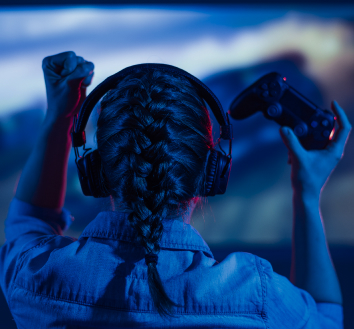
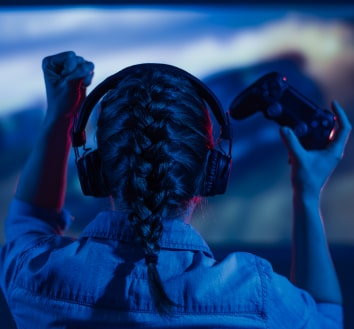
multiple changes : - Change Title in index.html - Fix HTML errors - Change some CSS values - Compress images sizes - Change modal close to be more consistent with the oppening

diff --git a/assets/css/style.min.css b/assets/css/style.min.css
@@ -1,1 +1,1 @@
-:root{--font-default:"DM Sans",Arial,Helvetica,sans-serif;--font-slab:var(--font-default);--modal-duration:0.8s}*{-webkit-box-sizing:border-box;box-sizing:border-box;margin:0;padding:0}body{margin:0;display:-webkit-box;display:-ms-flexbox;display:flex;-webkit-box-orient:vertical;-webkit-box-direction:normal;-ms-flex-direction:column;flex-direction:column;font-family:var(--font-default);font-size:1rem;max-width:1300px;margin:0 auto}p{margin-bottom:0;padding:.1rem}.topnav{overflow:hidden;margin:3.5% 3.5% 0 3.5%}.header-logo{float:left;padding:1rem 0}.main-navbar{float:right;padding:1rem 0}.topnav a{float:left;display:block;color:#000;text-align:center;padding:1rem 1rem;text-decoration:none;font-size:1rem;font-family:Roboto,sans-serif}.topnav a:hover{background-color:red;color:#fff;border-radius:1rem}.topnav a.active{background-color:red;color:#fff;border-radius:1rem}.topnav .icon{display:none}main{font-weight:bolder;color:#000;margin:3.5% 3.5% 0 3.5%;border-radius:2rem;text-align:justify}.modal-btn{font-size:145%;background:#fe142f;display:-webkit-box;display:-ms-flexbox;display:flex;margin:auto;padding:2em;color:#fff;padding:.75rem 2.5rem;border-radius:1rem;cursor:pointer}.modal-btn:hover{background:#3876ac}.footer{margin:1rem;padding:.5rem;font-family:var(--font-slab)}.button{background:#fe142f;margin-top:.5em;padding:1em;color:#fff;border-radius:1rem;cursor:pointer;font-size:1rem}.button:hover{background:#3876ac}.smFont{font-size:1rem}.bground{display:none;position:fixed;z-index:1;left:0;top:0;height:100%;width:100%;overflow:auto;background-color:rgba(26,39,156,.4)}.content{margin:5% auto;width:100%;max-width:500px;-webkit-animation-name:modalopen;animation-name:modalopen;-webkit-animation-duration:var(--modal-duration);animation-duration:var(--modal-duration);background:#232323;border-radius:.6rem;overflow:hidden;position:relative;color:#fff;padding-top:.6rem}.modal-body{padding:1rem 8%;margin:1rem auto}label{font-family:var(--font-default);font-size:1rem;font-weight:400;display:inline-block;margin:.75rem 0 .5rem 0}input{padding:.5rem;border:.05rem solid #ccc;outline:0}.text-control{margin:0;padding:.5rem;width:100%;border-radius:.5rem;font-size:1rem;height:3rem}.formData[data-error]::after{content:attr(data-error);font-size:.5em;color:#e54858;display:block;margin-top:.5rem;margin-bottom:.5rem;text-align:right;line-height:.3;opacity:0;-webkit-transition:.3s;-o-transition:.3s;transition:.3s}.formData[data-error-visible=true]::after{opacity:1}.formData[data-error-visible=true] .text-control{border:.1rem solid #e54858}.checkbox-label,.checkbox2-label{position:relative;margin-left:2rem;font-size:.8rem;font-weight:400}.checkbox-label .checkbox-icon,.checkbox2-label .checkbox-icon{display:block;width:1rem;height:1rem;border:.1rem solid #279e7a;border-radius:50%;text-indent:2rem;white-space:nowrap;position:absolute;left:-2rem;top:-.005rem;-webkit-transition:.3s;-o-transition:.3s;transition:.3s}.checkbox-label .checkbox-icon::after,.checkbox2-label .checkbox-icon::after{content:"";width:.8rem;height:.8rem;background-color:#279e7a;border-radius:50%;text-indent:2rem;white-space:nowrap;position:absolute;left:50%;top:50%;-webkit-transform:translate(-50%,-50%);-ms-transform:translate(-50%,-50%);transform:translate(-50%,-50%);-webkit-transition:.3s;-o-transition:.3s;transition:.3s;opacity:0}.checkbox-input{display:none}.checkbox-input:checked+.checkbox-label .checkbox-icon::after,.checkbox-input:checked+.checkbox2-label .checkbox-icon::after{opacity:1}.checkbox-input:checked+.checkbox2-label .checkbox-icon{background:#279e7a}.checkbox2-label .checkbox-icon{border-radius:.2rem;border:0;background:#c4c4c4}.checkbox2-label .checkbox-icon::after{width:.5rem;height:.2rem;border-radius:.1rem;background:0 0;border:.1rem solid transparent;border-bottom-color:#fff;border-left-color:#fff;-webkit-transform:rotate(-55deg);-ms-transform:rotate(-55deg);transform:rotate(-55deg);left:21%;top:19%}.close{position:absolute;right:1rem;top:1rem;width:2rem;height:2rem;opacity:1;cursor:pointer;-webkit-transform:scale(.7);-ms-transform:scale(.7);transform:scale(.7)}.close:after,.close:before{position:absolute;left:1rem;content:" ";height:2.1rem;width:.3rem;background-color:#fff}.close:before{-webkit-transform:rotate(45deg);-ms-transform:rotate(45deg);transform:rotate(45deg)}.close:after{-webkit-transform:rotate(-45deg);-ms-transform:rotate(-45deg);transform:rotate(-45deg)}.btn-close,.btn-signup,.btn-submit{background:#fe142f;display:block;margin:0 auto;border-radius:.5rem;font-size:1rem;padding:1rem 5rem;color:#fff;cursor:pointer;border:0}.custom-select{position:relative;font-family:Arial;font-size:1rem;font-weight:400}.custom-select select{display:none}.select-selected{background-color:#fff}.select-selected:after{position:absolute;content:"";top:.6rem;right:.8rem;width:.7rem;height:.7rem;border:.2rem solid transparent;border-bottom-color:red;border-left-color:red;-webkit-transform:rotate(-48deg);-ms-transform:rotate(-48deg);transform:rotate(-48deg);border-radius:.3rem 0 .3rem 0}.select-selected.select-arrow-active:after{-webkit-transform:rotate(135deg);-ms-transform:rotate(135deg);transform:rotate(135deg);top:1rem}.select-items div,.select-selected{color:#000;padding:1rem;border:.05rem solid transparent;border-color:transparent transparent rgba(0,0,0,.1) transparent;cursor:pointer;border-radius:.5rem;height:3rem}.select-items{position:absolute;background-color:#fff;top:89%;left:0;right:0;z-index:99}.select-hide{display:none}.same-as-selected,.select-items div:hover{background-color:rgba(0,0,0,.1)}.text-label{font-weight:400;font-size:1rem;margin-top:1rem}.hero-section{height:34rem;border-radius:.5rem;display:grid;grid-template-columns:repeat(12,1fr);overflow:hidden;-webkit-box-shadow:0 .1rem .5rem .1rem rgba(0,0,0,.2);box-shadow:0 .1rem .5rem .1rem rgba(0,0,0,.2);margin-bottom:.6rem}.hero-content{padding:3rem 4rem;grid-column:span 5;background:#232323;color:#fff;position:relative;text-align:left;min-width:100%;height:inherit}.hero-content>*{position:relative;z-index:1}.hero-headline{font-size:4rem;font-weight:400;white-space:nowrap}.hero-text{width:110%;font-weight:400;margin-top:3.5rem;padding:0;font-size:1.3rem}.btn-signup{outline:0;font-size:1.2rem;padding:1rem 1.5rem;margin:0;margin-top:4rem}.hero-img{grid-column:span 7;height:inherit}.hero-img img{width:100%;height:100%;display:block;padding:0;-o-object-fit:cover;object-fit:cover}.copyrights{color:#fe142f;padding:0;font-size:1rem;margin:4rem 0 2rem;font-weight:bolder}.hero-section>.btn-signup{display:none}footer{margin:0 1rem}@media screen and (max-width:1000px){html{font-size:2vw}.header-logo{width:20%}.header-logo img{width:100%}.topnav a{padding:.5rem .5rem}.topnav a.active{border-radius:.5rem}.hero-text{margin-top:2rem}.btn-signup{margin-top:2rem}}@media screen and (max-width:767px){html{font-size:4vw}main{margin:0 1rem 1rem 1rem}.header-logo{width:unset}.header-logo img{height:1.5rem}.topnav a{display:none;margin:.5rem;font-size:1.5rem}.topnav a.icon{float:right;display:block;color:red;font-size:1.5rem}a.icon:hover{color:#fff}.topnav.responsive{position:relative}.topnav.responsive .icon{position:absolute;right:.5rem;top:.45rem}.topnav.responsive a{float:none;display:block;text-align:center;margin:.05rem 0}.responsive .main-navbar{margin-top:4rem}.main-navbar{float:none;padding:0}.hero-headline br{display:none}.hero-section{display:block;-webkit-box-shadow:unset;box-shadow:unset;height:100%}.hero-content{background:#fff;color:#000;padding:0;min-width:unset}.hero-content::after{content:unset}.hero-content .btn-signup{display:none}.hero-headline{font-size:2.6rem;white-space:normal}.hero-text{width:unset;font-size:.9rem;margin-top:1rem}.hero-img img{border-radius:.6rem;margin-top:1rem}.hero-section>.btn-signup{display:block;margin:2rem auto .5rem;padding:1rem 3rem}.copyrights{margin:.5rem 0;text-align:center}}@media screen and (max-width:540px){.topnav a{display:none}.topnav a.icon{float:right;display:block}}@-webkit-keyframes modalopen{from{opacity:0;-webkit-transform:translateY(-9.5rem);transform:translateY(-9.5rem)}to{opacity:1}}@keyframes modalopen{from{opacity:0;-webkit-transform:translateY(-9.5rem);transform:translateY(-9.5rem)}to{opacity:1}}.error-form{color:red;font-size:.8rem;margin-top:.2rem}#error-birthdate,#error-city,#error-email,#error-first,#error-last,#error-quantity,#error-term{display:none}#confirmation{margin:auto;display:none}#confirmation h1{text-align:center;font-size:2rem;padding:18rem 0}
+:root{--font-default:"DM Sans",Arial,Helvetica,sans-serif;--font-slab:var(--font-default);--modal-duration:0.8s}*{-webkit-box-sizing:border-box;box-sizing:border-box;margin:0;padding:0}body{margin:0;display:-webkit-box;display:-ms-flexbox;display:flex;-webkit-box-orient:vertical;-webkit-box-direction:normal;-ms-flex-direction:column;flex-direction:column;font-family:var(--font-default);font-size:1rem;max-width:1300px;margin:0 auto}p{margin-bottom:0;padding:.1rem}.topnav{overflow:hidden;margin:3.5% 3.5% 0 3.5%}.header-logo{float:left;padding:1rem 0;width:20%}.header-logo img{width:100%}.main-navbar{float:right;padding:1rem 0}.topnav a{float:left;display:block;color:#000;text-align:center;margin:.2rem .1rem;padding:.4rem .8rem;text-decoration:none;font-size:1.2rem;font-family:Roboto,sans-serif}.topnav a:hover{background-color:red;color:#fff;border-radius:.5rem}.topnav a.active{background-color:red;color:#fff;border-radius:.5rem}.topnav .icon{display:none}main{font-weight:bolder;color:#000;margin:3.5% 3.5% 0 3.5%;border-radius:2rem;text-align:justify}.modal-btn{font-size:145%;background:#fe142f;display:-webkit-box;display:-ms-flexbox;display:flex;margin:auto;padding:2em;color:#fff;padding:.75rem 2.5rem;border-radius:1rem;cursor:pointer}.modal-btn:hover{background:#3876ac}.footer{margin:1rem;padding:.5rem;font-family:var(--font-slab)}.button{background:#fe142f;margin-top:.5em;padding:1em;color:#fff;border-radius:1rem;cursor:pointer;font-size:1rem}.button:hover{background:#3876ac}.smFont{font-size:1rem}.bground{display:none;position:fixed;z-index:1;left:0;top:0;height:100%;width:100%;overflow:auto;background-color:rgba(26,39,156,.4)}.content{margin:5% auto;width:100%;max-width:500px;-webkit-animation-name:modalopen;animation-name:modalopen;-webkit-animation-duration:var(--modal-duration);animation-duration:var(--modal-duration);background:#232323;border-radius:.6rem;overflow:hidden;position:relative;color:#fff;padding-top:.6rem}.modal-body{padding:1rem 8%;margin:1rem auto}label{font-family:var(--font-default);font-size:1rem;font-weight:400;display:inline-block;margin:.75rem 0 .5rem 0}input{padding:.5rem;border:.05rem solid #ccc;outline:0}.text-control{margin:0;padding:.5rem;width:100%;border-radius:.5rem;font-size:1rem;height:3rem}.formData[data-error]::after{content:attr(data-error);font-size:.5em;color:#e54858;display:block;margin-top:.5rem;margin-bottom:.5rem;text-align:right;line-height:.3;opacity:0;-webkit-transition:.3s;-o-transition:.3s;transition:.3s}.formData[data-error-visible=true]::after{opacity:1}.formData[data-error-visible=true] .text-control{border:.1rem solid #e54858}.checkbox-label,.checkbox2-label{position:relative;margin-left:2rem;font-size:.8rem;font-weight:400}.checkbox-label .checkbox-icon,.checkbox2-label .checkbox-icon{display:block;width:1rem;height:1rem;border:.1rem solid #279e7a;border-radius:50%;text-indent:2rem;white-space:nowrap;position:absolute;left:-2rem;top:-.005rem;-webkit-transition:.3s;-o-transition:.3s;transition:.3s}.checkbox-label .checkbox-icon::after,.checkbox2-label .checkbox-icon::after{content:"";width:.8rem;height:.8rem;background-color:#279e7a;border-radius:50%;text-indent:2rem;white-space:nowrap;position:absolute;left:50%;top:50%;-webkit-transform:translate(-50%,-50%);-ms-transform:translate(-50%,-50%);transform:translate(-50%,-50%);-webkit-transition:.3s;-o-transition:.3s;transition:.3s;opacity:0}.checkbox-input{display:none}.checkbox-input:checked+.checkbox-label .checkbox-icon::after,.checkbox-input:checked+.checkbox2-label .checkbox-icon::after{opacity:1}.checkbox-input:checked+.checkbox2-label .checkbox-icon{background:#279e7a}.checkbox2-label .checkbox-icon{border-radius:.2rem;border:0;background:#c4c4c4}.checkbox2-label .checkbox-icon::after{width:.5rem;height:.2rem;border-radius:.1rem;background:0 0;border:.1rem solid transparent;border-bottom-color:#fff;border-left-color:#fff;-webkit-transform:rotate(-55deg);-ms-transform:rotate(-55deg);transform:rotate(-55deg);left:21%;top:19%}.close{position:absolute;right:1rem;top:1rem;width:2rem;height:2rem;opacity:1;cursor:pointer;-webkit-transform:scale(.7);-ms-transform:scale(.7);transform:scale(.7)}.close:after,.close:before{position:absolute;left:1rem;content:" ";height:2.1rem;width:.3rem;background-color:#fff}.close:before{-webkit-transform:rotate(45deg);-ms-transform:rotate(45deg);transform:rotate(45deg)}.close:after{-webkit-transform:rotate(-45deg);-ms-transform:rotate(-45deg);transform:rotate(-45deg)}.btn-close,.btn-signup,.btn-submit{background:#fe142f;display:block;margin:0 auto;border-radius:.5rem;font-size:1rem;padding:.8rem 3rem;color:#fff;cursor:pointer;border:0}.custom-select{position:relative;font-family:Arial;font-size:1rem;font-weight:400}.custom-select select{display:none}.select-selected{background-color:#fff}.select-selected:after{position:absolute;content:"";top:.6rem;right:.8rem;width:.7rem;height:.7rem;border:.2rem solid transparent;border-bottom-color:red;border-left-color:red;-webkit-transform:rotate(-48deg);-ms-transform:rotate(-48deg);transform:rotate(-48deg);border-radius:.3rem 0 .3rem 0}.select-selected.select-arrow-active:after{-webkit-transform:rotate(135deg);-ms-transform:rotate(135deg);transform:rotate(135deg);top:1rem}.select-items div,.select-selected{color:#000;padding:1rem;border:.05rem solid transparent;border-color:transparent transparent rgba(0,0,0,.1) transparent;cursor:pointer;border-radius:.5rem;height:3rem}.select-items{position:absolute;background-color:#fff;top:89%;left:0;right:0;z-index:99}.select-hide{display:none}.same-as-selected,.select-items div:hover{background-color:rgba(0,0,0,.1)}.text-label{font-weight:400;font-size:1rem;margin-top:1rem}.hero-section{height:34rem;border-radius:.5rem;display:grid;grid-template-columns:repeat(12,1fr);overflow:hidden;-webkit-box-shadow:0 .1rem .5rem .1rem rgba(0,0,0,.2);box-shadow:0 .1rem .5rem .1rem rgba(0,0,0,.2);margin-bottom:.6rem}.hero-content{padding:3rem 4rem;grid-column:span 5;background:#232323;color:#fff;position:relative;text-align:left;min-width:100%;height:inherit}.hero-content>*{position:relative;z-index:1}.hero-headline{font-size:4rem;font-weight:400;white-space:nowrap}.hero-text{width:110%;font-weight:400;margin-top:3.5rem;padding:0;font-size:1.3rem}.btn-signup{outline:0;font-size:1.2rem;padding:.8rem 1.5rem;margin:0;margin-top:4rem}.hero-img{grid-column:span 7;height:inherit}.hero-img img{width:100%;height:100%;display:block;padding:0;-o-object-fit:cover;object-fit:cover}.copyrights{color:#fe142f;padding:0;font-size:1rem;margin:4rem 0 2rem;font-weight:bolder}.hero-section>.btn-signup{display:none}footer{margin:0 1rem}@media screen and (max-width:1000px){html{font-size:2vw}.main-navbar{padding:.5rem 0}.topnav a{padding:.5rem .5rem;font-size:1rem}.topnav a.active{border-radius:.5rem}.hero-text{margin-top:2rem}.btn-signup{margin-top:2rem}}@media screen and (max-width:767px){.content{margin:5% auto 0 auto;margin-left:auto;position:fixed;top:auto;right:auto;left:auto;bottom:0}.text-control{height:5vh}label{margin:1vh 0 .5vh 0}#form{display:-webkit-box;display:-ms-flexbox;display:flex;-webkit-box-orient:vertical;-webkit-box-direction:normal;-ms-flex-direction:column;flex-direction:column;-webkit-box-pack:justify;-ms-flex-pack:justify;justify-content:space-between;height:inherit;padding-bottom:2rem}.modal-body{height:85vh}html{font-size:4vw}main{margin:0 1rem 1rem 1rem}.header-logo{width:unset}.header-logo img{height:1.5rem;width:auto}.topnav a{display:none;margin:.5rem;font-size:1.5rem}.topnav a.icon{float:right;display:block;color:red;font-size:1.5rem}a.icon:hover{color:#fff}.topnav.responsive{position:relative}.topnav.responsive .icon{position:absolute;right:.5rem;top:.45rem}.topnav.responsive a{float:none;display:block;text-align:center;margin:.05rem 0;border-radius:.5rem}.responsive .main-navbar{margin-top:4rem}.main-navbar{float:none;padding:0}.hero-headline br{display:none}.hero-section{display:block;-webkit-box-shadow:unset;box-shadow:unset;height:100%}.hero-content{background:#fff;color:#000;padding:0;min-width:unset}.hero-content::after{content:unset}.hero-content .btn-signup{display:none}.hero-headline{font-size:2.6rem;white-space:normal}.hero-text{width:unset;font-size:.9rem;margin-top:1rem}.hero-img img{border-radius:.6rem;margin-top:1rem}.hero-section>.btn-signup{display:block;margin:2rem auto .5rem;padding:.5rem 2.5rem}.copyrights{margin:.5rem 0;text-align:center}}@media screen and (max-width:540px){.topnav a{display:none}.topnav a.icon{float:right;display:block}}@-webkit-keyframes modalopen{from{opacity:0;-webkit-transform:translateY(-9.5rem);transform:translateY(-9.5rem)}to{opacity:1}}@keyframes modalopen{from{opacity:0;-webkit-transform:translateY(-9.5rem);transform:translateY(-9.5rem)}to{opacity:1}}.error-form{color:red;font-size:.8rem;margin-top:.2rem}#error-birthdate,#error-city,#error-email,#error-first,#error-last,#error-quantity,#error-term{display:none}#confirmation{margin:auto;display:none}#confirmation h1{text-align:center;font-size:2rem;padding:18rem 0}

diff --git a/assets/js/main.min.js b/assets/js/main.min.js
@@ -1,1 +1,1 @@
-function editNav(){var x=document.getElementById("myTopnav");"topnav"===x.className?x.className+=" responsive":x.className="topnav"}const modalbg=document.querySelector(".bground"),modalBtn=document.querySelectorAll(".modal-btn"),formData=document.querySelectorAll(".formData"),modalCloseBtn=document.getElementsByClassName("close"),form=document.getElementById("form"),firstName=document.getElementById("first"),lastName=document.getElementById("last"),email=document.getElementById("email"),birthdate=document.getElementById("birthdate"),quantity=document.getElementById("quantity"),loc1=document.getElementById("location1"),loc2=document.getElementById("location2"),loc3=document.getElementById("location3"),loc4=document.getElementById("location4"),loc5=document.getElementById("location5"),loc6=document.getElementById("location6"),term=document.getElementById("checkbox1"),errorFirst=document.getElementById("error-first"),errorLast=document.getElementById("error-last"),errorEmail=document.getElementById("error-email"),errorBirthdate=document.getElementById("error-birthdate"),errorQuantity=document.getElementById("error-quantity"),errorCity=document.getElementById("error-city"),errorTerm=document.getElementById("error-term"),confirmation=document.getElementById("confirmation"),confirmationCloseBtn=document.getElementById("confirmation-btn-close");function launchModal(){modalbg.style.display="block"}function closeModal(){modalbg.style.display="none"}modalBtn.forEach(btn=>btn.addEventListener("click",launchModal)),modalCloseBtn[0].addEventListener("click",closeModal),confirmationCloseBtn.addEventListener("click",closeModal),form.addEventListener("submit",e=>{e.preventDefault();const nameRegex=/^([A-Za-zÀ-ÖØ-öø-ÿ][A-Za-zÀ-ÖØ-öø-ÿ ,.'-]*){2}$/g,emailRegex=/(?=^.{5,255}$)^([A-Za-z0-9._%+-]+@[A-Za-z0-9.-]+\.[A-Za-z]{2,})$/g,birthdateRegex=/^\d{4}\-(0?[1-9]|1[012])\-(0?[1-9]|[12][0-9]|3[01])$/,quantityRegex=/^[0-9]{1,2}$/g;var formValidated=!0;function validateInput(input,regex,error,input){const validated=input.value.match(regex);validated?(error.style.display="none",input.style.border="0.05rem solid #ccc"):(formValidated=!1,error.style.display="block",input.style.border="0.2rem solid #fe142f")}validateInput(firstName,nameRegex,errorFirst,firstName),validateInput(lastName,nameRegex,errorLast,lastName),validateInput(email,emailRegex,errorEmail,email),validateInput(birthdate,birthdateRegex,errorBirthdate,birthdate),validateInput(quantity,quantityRegex,errorQuantity,quantity),loc1.checked||loc2.checked||loc3.checked||loc4.checked||loc5.checked||loc6.checked?errorCity.style.display="none":(errorCity.style.display="block",formValidated=!1),term.checked?errorTerm.style.display="none":(errorTerm.style.display="block",formValidated=!1),formValidated&&(confirmation.style.display="block",form.style.display="none")});
+function editNav(){var x=document.getElementById("myTopnav");"topnav"===x.className?x.className+=" responsive":x.className="topnav"}const modalbg=document.querySelector(".bground"),modalBtn=document.querySelectorAll(".modal-btn"),formData=document.querySelectorAll(".formData"),modalCloseBtn=document.querySelectorAll(".close"),form=document.getElementById("form"),firstName=document.getElementById("first"),lastName=document.getElementById("last"),email=document.getElementById("email"),birthdate=document.getElementById("birthdate"),quantity=document.getElementById("quantity"),loc1=document.getElementById("location1"),loc2=document.getElementById("location2"),loc3=document.getElementById("location3"),loc4=document.getElementById("location4"),loc5=document.getElementById("location5"),loc6=document.getElementById("location6"),term=document.getElementById("checkbox1"),errorFirst=document.getElementById("error-first"),errorLast=document.getElementById("error-last"),errorEmail=document.getElementById("error-email"),errorBirthdate=document.getElementById("error-birthdate"),errorQuantity=document.getElementById("error-quantity"),errorCity=document.getElementById("error-city"),errorTerm=document.getElementById("error-term"),confirmation=document.getElementById("confirmation"),confirmationCloseBtn=document.querySelectorAll(".btn-close");function launchModal(){modalbg.style.display="block"}function closeModal(){modalbg.style.display="none"}modalBtn.forEach(btn=>btn.addEventListener("click",launchModal)),modalCloseBtn.forEach(btn=>btn.addEventListener("click",closeModal)),confirmationCloseBtn.forEach(btn=>btn.addEventListener("click",closeModal)),form.addEventListener("submit",e=>{e.preventDefault();const nameRegex=/^([A-Za-zÀ-ÖØ-öø-ÿ][A-Za-zÀ-ÖØ-öø-ÿ ,.'-]*){2}$/g,emailRegex=/(?=^.{5,255}$)^([A-Za-z0-9._%+-]+@[A-Za-z0-9.-]+\.[A-Za-z]{2,})$/g,birthdateRegex=/^\d{4}\-(0?[1-9]|1[012])\-(0?[1-9]|[12][0-9]|3[01])$/,quantityRegex=/^[0-9]{1,2}$/g;var formValidated=!0;function validateInput(input,regex,error,input){const validated=input.value.match(regex);validated?(error.style.display="none",input.style.border="0.05rem solid #ccc"):(formValidated=!1,error.style.display="block",input.style.border="0.2rem solid #fe142f")}validateInput(firstName,nameRegex,errorFirst,firstName),validateInput(lastName,nameRegex,errorLast,lastName),validateInput(email,emailRegex,errorEmail,email),validateInput(birthdate,birthdateRegex,errorBirthdate,birthdate),validateInput(quantity,quantityRegex,errorQuantity,quantity),loc1.checked||loc2.checked||loc3.checked||loc4.checked||loc5.checked||loc6.checked?errorCity.style.display="none":(errorCity.style.display="block",formValidated=!1),term.checked?errorTerm.style.display="none":(errorTerm.style.display="block",formValidated=!1),formValidated&&(confirmation.style.display="block",form.style.display="none")});

diff --git a/assets/css/style.css b/assets/css/style.css
@@ -38,6 +38,10 @@ p {
 .header-logo {
 	float: left;
 	padding: 1rem 0;
+	width: 20%;
+}
+.header-logo img {
+	width: 100%;
 }
 .main-navbar {
 	float: right;
@@ -46,24 +50,25 @@ p {
 .topnav a {
 	float: left;
 	display: block;
-	color: #000000;
+	color: #000;
 	text-align: center;
-	padding: 1rem 1rem;
+	margin: 0.2rem 0.1rem;
+	padding: 0.4rem 0.8rem;
 	text-decoration: none;
-	font-size: 1rem;
+	font-size: 1.2rem;
 	font-family: Roboto, sans-serif;
 }
 
 .topnav a:hover {
 	background-color: #ff0000;
 	color: #ffffff;
-	border-radius: 1rem;
+	border-radius: 0.5rem;
 }
 
 .topnav a.active {
 	background-color: #ff0000;
 	color: #ffffff;
-	border-radius: 1rem;
+	border-radius: 0.5rem;
 }
 
 .topnav .icon {
@@ -306,7 +311,7 @@ input {
 	margin: 0 auto;
 	border-radius: 0.5rem;
 	font-size: 1rem;
-	padding: 1rem 5rem;
+	padding: 0.8rem 3rem;
 	color: #fff;
 	cursor: pointer;
 	border: 0;
@@ -426,7 +431,7 @@ input {
 .btn-signup {
 	outline: none;
 	font-size: 1.2rem;
-	padding: 1rem 1.5rem;
+	padding: 0.8rem 1.5rem;
 	margin: 0;
 	margin-top: 4rem;
 }
@@ -460,14 +465,12 @@ footer {
 	html {
 		font-size: 2vw;
 	}
-	.header-logo {
-		width: 20%;
-	}
-	.header-logo img {
-		width: 100%;
+	.main-navbar {
+		padding: 0.5rem 0;
 	}
 	.topnav a {
 		padding: 0.5rem 0.5rem;
+		font-size: 1rem;
 	}
 	.topnav a.active {
 		border-radius: 0.5rem;
@@ -481,6 +484,39 @@ footer {
 }
 
 @media screen and (max-width: 767px) {
+	.content {
+		margin: 5% auto 0 auto;
+		margin-left: auto;
+		position: fixed;
+		top: auto;
+		right: auto;
+		left: auto;
+		bottom: 0;
+	}
+	.text-control {
+		height: 5vh;
+	}
+	label {
+		margin: 1vh 0 0.5vh 0;
+	}
+	#form {
+		display: -webkit-box;
+		display: -ms-flexbox;
+		display: flex;
+		-webkit-box-orient: vertical;
+		-webkit-box-direction: normal;
+		-ms-flex-direction: column;
+		flex-direction: column;
+		-webkit-box-pack: justify;
+		-ms-flex-pack: justify;
+		justify-content: space-between;
+		height: inherit;
+		padding-bottom: 2rem;
+	}
+	.modal-body {
+		height: 85vh;
+	}
+
 	html {
 		font-size: 4vw;
 	}
@@ -492,6 +528,7 @@ footer {
 	}
 	.header-logo img {
 		height: 1.5rem;
+		width: auto;
 	}
 	.topnav a {
 		display: none;
@@ -521,6 +558,7 @@ footer {
 		display: block;
 		text-align: center;
 		margin: 0.05rem 0;
+		border-radius: 0.5rem;
 	}
 	.responsive .main-navbar {
 		margin-top: 4rem;
@@ -566,7 +604,7 @@ footer {
 	.hero-section > .btn-signup {
 		display: block;
 		margin: 2rem auto 0.5rem;
-		padding: 1rem 3rem;
+		padding: 0.5rem 2.5rem;
 	}
 	.copyrights {
 		margin: 0.5rem 0;

diff --git a/index.html b/index.html
@@ -2,7 +2,7 @@
 <html lang="en">
 	<head>
 		<meta charset="utf-8" />
-		<title>GameOn</title>
+		<title>GameOn - Inscrivez-vous !</title>
 		<meta name="viewport" content="width=device-width,initial-scale=1" />
 		<link rel="shortcut icon" href="assets/img/favicon.ico" type="image/x-icon" />
 		<link rel="icon" href="assets/img/favicon.ico" type="image/x-icon" />
@@ -13,7 +13,7 @@
 	<body>
 		<div class="topnav" id="myTopnav">
 			<div class="header-logo">
-				<img alt="logo" src="assets/img/Logo.png" width="auto" height="auto" />
+				<img alt="logo" src="assets/img/Logo.png" />
 			</div>
 			<div class="main-navbar">
 				<a href="#" class="active"><span>Accueil</span></a>
@@ -109,7 +109,7 @@
 
 							<div class="formData">
 								<input class="checkbox-input" type="checkbox" id="checkbox1" />
-								<label class="checkbox2-label" for="checkbox1" required>
+								<label class="checkbox2-label" for="checkbox1">
 									<span class="checkbox-icon"></span>
 									J'ai lu et accepté les conditions d'utilisation.
 								</label>
@@ -123,7 +123,7 @@
 								<br />
 							</div>
 
-							<input class="btn-submit" type="submit" class="button" value="C'est parti" />
+							<input class="btn-submit button" type="submit" value="C'est parti" />
 						</form>
 
 						<div id="confirmation">

diff --git a/assets/js/main.js b/assets/js/main.js
@@ -11,7 +11,7 @@ function editNav() {
 const modalbg = document.querySelector(".bground");
 const modalBtn = document.querySelectorAll(".modal-btn");
 const formData = document.querySelectorAll(".formData");
-const modalCloseBtn = document.getElementsByClassName("close");
+const modalCloseBtn = document.querySelectorAll(".close");
 
 const form = document.getElementById("form");
 const firstName = document.getElementById("first");
@@ -36,7 +36,7 @@ const errorCity = document.getElementById("error-city");
 const errorTerm = document.getElementById("error-term");
 
 const confirmation = document.getElementById("confirmation");
-const confirmationCloseBtn = document.getElementById("confirmation-btn-close");
+const confirmationCloseBtn = document.querySelectorAll(".btn-close");
 
 // launch modal event
 modalBtn.forEach((btn) => btn.addEventListener("click", launchModal));
@@ -47,8 +47,8 @@ function launchModal() {
 }
 
 // Issue #1 : close modal
-modalCloseBtn[0].addEventListener("click", closeModal);
-confirmationCloseBtn.addEventListener("click", closeModal);
+modalCloseBtn.forEach((btn) => btn.addEventListener("click", closeModal));
+confirmationCloseBtn.forEach((btn) => btn.addEventListener("click", closeModal));
 
 function closeModal() {
 	modalbg.style.display = "none";
